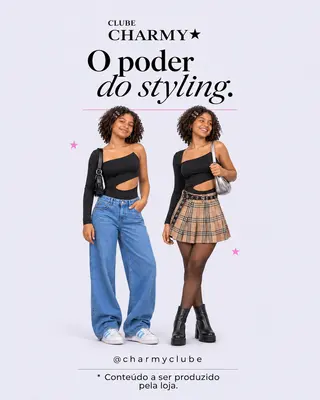
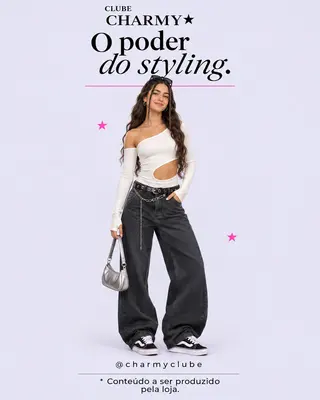
Refaz Poder do Styling com nova modelo e look Liz wide black

Changed region(s): [[0.25, 0.0, 0.75, 0.99], [0.2188, 0.36, 0.25, 0.39]]

diff --git a/src/data/proposed-covers.js b/src/data/proposed-covers.js
@@ -105,20 +105,16 @@ const covers = {
   },
   "roteiros-charmy-v1-3": {
     "src": "src/assets/posts/capas-sugeridas/poder-styling.png",
-    "alt": "Capa sugerida de O Poder do Styling: dois looks completos com Body Liz preto, combinando jeans wide leg e tênis branco e azul, ou saia Sophie xadrez, meia-calça transparente e botas de plataforma. Conteúdo a ser produzido pela loja.",
+    "alt": "Capa sugerida de O Poder do Styling: modelo adolescente de cabelo longo com Body Liz off-white, jeans wide black, cinto de ilhós, corrente, bolsa prateada e tênis de skate preto e branco. Conteúdo a ser produzido pela loja.",
     "title": "O Poder do Styling",
     "products": [
       {
-        "name": "Body Liz - preto",
-        "url": "https://charmozinha.bagypro.com/body-liz-preto-venda-antecipada-envio-dia-040826"
+        "name": "Body Liz - Off",
+        "url": "https://charmozinha.bagypro.com/body-liz-off"
       },
       {
-        "name": "Saia Sophie - xadrez",
-        "url": "https://charmozinha.bagypro.com/saia-sophie-xadrez"
-      },
-      {
-        "name": "Calça Jeans Wide Leg - clara",
-        "url": "https://charmozinha.bagypro.com/calca-jeans-wide-leg-clara"
+        "name": "Calça Jeans Wide black",
+        "url": "https://charmozinha.bagypro.com/calca-jeans-wide-black"
       }
     ]
   },
